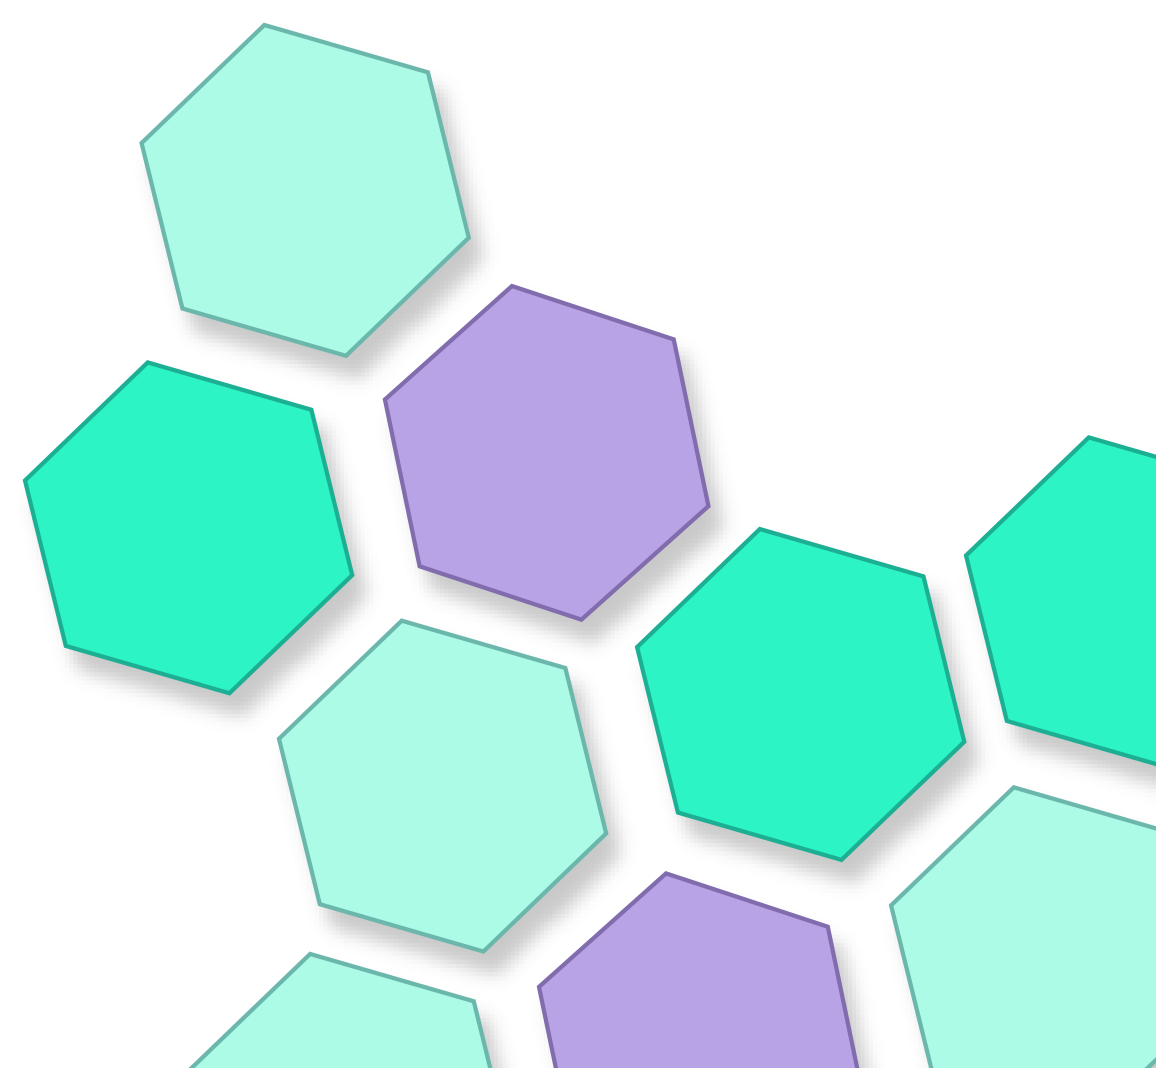
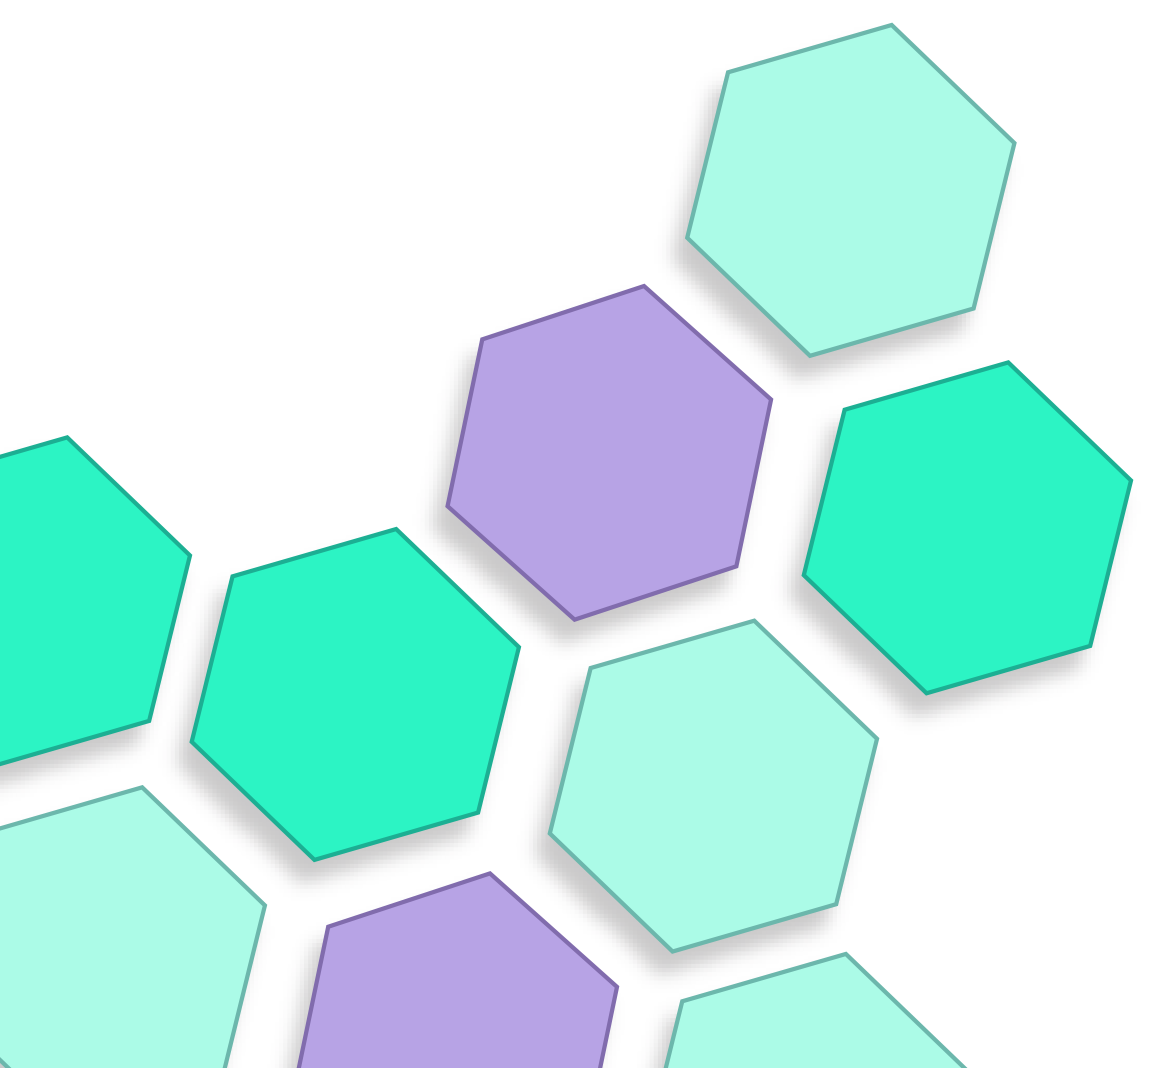
added new header image and removed most of cv content

diff --git a/index.html b/index.html
@@ -21,12 +21,12 @@
 	<section id="#top" class="col-11">
 		<h1 id="name">Anna Fuentes Jakobsen</h1>	
 
-	<nav class="navbar">
-  	<a href="#">Om mig</a>
-		<a href="#">Projekt</a>
-		<a href="#">CV</a>
-		<a href="#">Kontakt</a>
-	</nav>
+		<nav class="navbar">
+  		<a href="#">Om mig</a>
+			<a href="#">Projekt</a>
+			<a href="#">CV</a>
+			<a href="#">Kontakt</a>
+		</nav>
 	</section>
 </header>
 <!-- Main -->
@@ -52,12 +52,12 @@
 </div>
 
 <section id="cv">
-					<div class="col-11">
-	<h1>Utbildning</h1>
-
-						<h3>Front-end Utvecklare</h3>
-						<h6>Nackademin | 2015 - 2017</h6>
-					</div>
+	<div class="col-11">
+		<img src="img/graduate.jpg">
+			<h1>Utbildning</h1>
+			<h3>Front-end Utvecklare</h3>
+			<h6>Nackademin | 2015 - 2017</h6>
+	</div>
 					<div class="wrapper-list">
 					<div class="row">
 					<div class="col-5">
@@ -82,11 +82,13 @@
 						</ul>
 						</div>
 					</div>
+							<p class="download-cv">Ladda ner mitt  <a href="#">CV</a></p>
 				</div>
 </section>
 
 
 	<section id="project">
+	<div class="project-img"> <img src="img/project.jpg"></div>
 		<h1 class="">Projekt</h1>
 <div class="wrapper">
 		<div class="row">
@@ -122,9 +124,7 @@
 	</section>
 
 	<section class="row">
-		<div class="col-2">
-			<img class="cat" src="img/cat.jpg">
-		</div>
+
 		<div class="col-3">
 			<img class="furiosa" src="img/furiosa.jpg">
 		</div>
@@ -142,45 +142,8 @@
 </div>
 
 
-<!--
-<div class="col-12">
-		<h3>Special FX Make-up School</h3>
-		<h6>Folkuniversitetet | 2011 - 2012</h6>
-
-
-		<h3>Teaterlinjen</h3>
-		<h6>Nordiska Folkhögskolan | 2010 - 2011</h6>
-
-
-		<h3>Estetiska programmet inriktning Teater</h3>
-		<h6>S:t Eriks gymnasium | 2006 - 2009</h6>
-</div>
-
-<h1>Fristående kurser</h1>
-	<div class="col-12">
-		<h3>Programmering 1</h3>
-		<h6>Jensen vuxenutbildning | Nov 2014</h6>
-	</div>
-
-
-
-<h1>Anställningar</h1>
-	<div class="col-12">
-		<h3>Naturkompaniet</h3>
-		<h6>2014 - 2015</h6>
-
-		<h3>Bring CityMail</h3>
-		<h6>Feb 2014 - Nov 2014</h6>
-
-		<h3>Tórshavns kommun, Färöarna</h3>
-		<h6>Juni 2012 - Aug 2012</h6>
-
-		<p class="download-cv">Ladda ner mitt  <a href="#">CV</a></p>
-	</div>
-
 </section>
 
--->
 
 
 </main>
@@ -203,16 +166,13 @@
 				<li><a href="https://www.linkedin.com/in/anna-fuentes-jakobsen-254067101?trk=nav_responsive_tab_profile_pic" title="My LinkedIn account">LinkedIn</a></li>
 				<li><a href="https://github.com/AnnaFuentesJakobsen" title="My Github account">Github</a></li>
 				<li><a href="http://steamcommunity.com/id/murrdeluxe" title="My Steam account">Steam</a></li>
-				<li>Reddit</li>
 				<li><a href="https://www.instagram.com/whatdajunk/" title="My Instagram account">Instagram</a></li>
 			</ul>
 	</div>
 
 		<div class="row">
-			<div class="col-5">
-				<a class ="back-up" href="#top">Tillbaka till toppen</a><img id="hexa" src="img/cubes.png">
-			</div>
-			<div class="col-12">
+			<div class="col-11">
+				<a class="back-up" href="#top">Tillbaka till toppen</a>
 			</div>
 		</div>
 </section>

diff --git a/style.css b/style.css
@@ -6,19 +6,18 @@
 #name {
 
 	color: grey;
+	padding-top: 240px;
 	font-family: 'Source Sans Pro', sans-serif;
-}
-#hexa {
-	width: 100px;
-	float: right;
+	font-size: 60px;
 }
 
 header {
-	background-image: url(img/hexa.png);
-	width: 100%;
-	height: 600px;
-	background-repeat: no-reapet;	
+	background-image: url(img/bighex.png);
+	background-size: cover;
+	height: 800px;
+
 }
+
 
 ul {
 	padding: 0;
@@ -95,7 +94,16 @@ h5, h6 {
 /* --------------------
   Main
 -------------------- */
+#cv img, .project-img {
+	display: block;
+	margin-left: auto;
+	margin-right: auto;
+	width: 70px;
+	height: 60px;
+	-webkit-filter: none;
 
+
+}
 
 .education-list {
 	text-align: left;
@@ -143,9 +151,6 @@ h5, h6 {
     background-color: blue;
 }
 
-.col-color {
-	background-color: blue;
-}
 
 /* --------------------
   Animation
